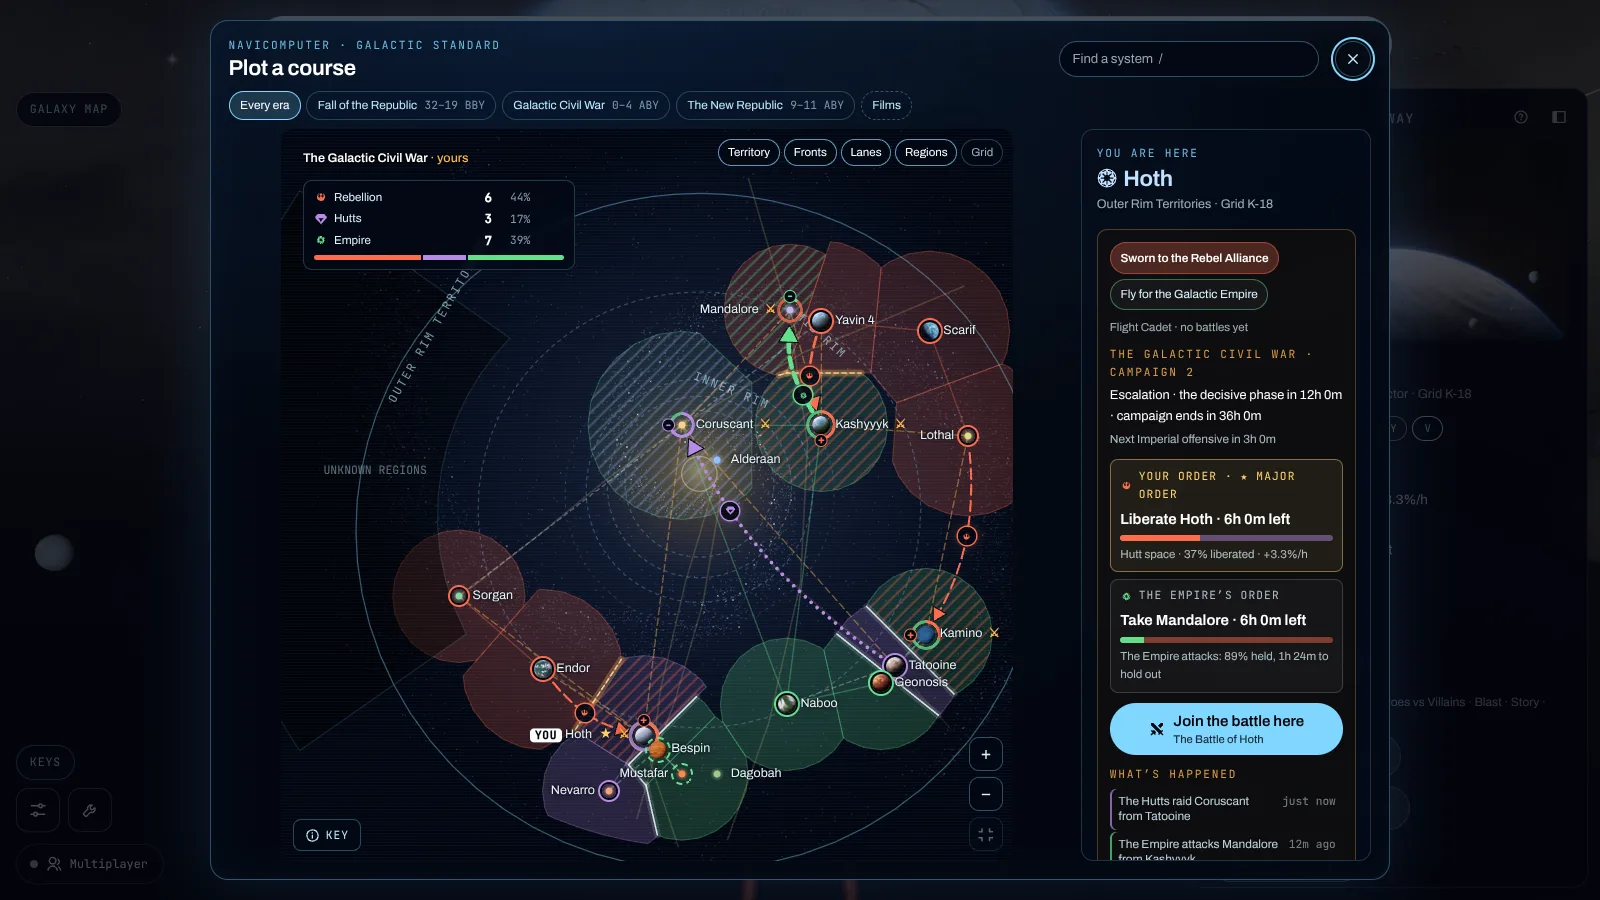
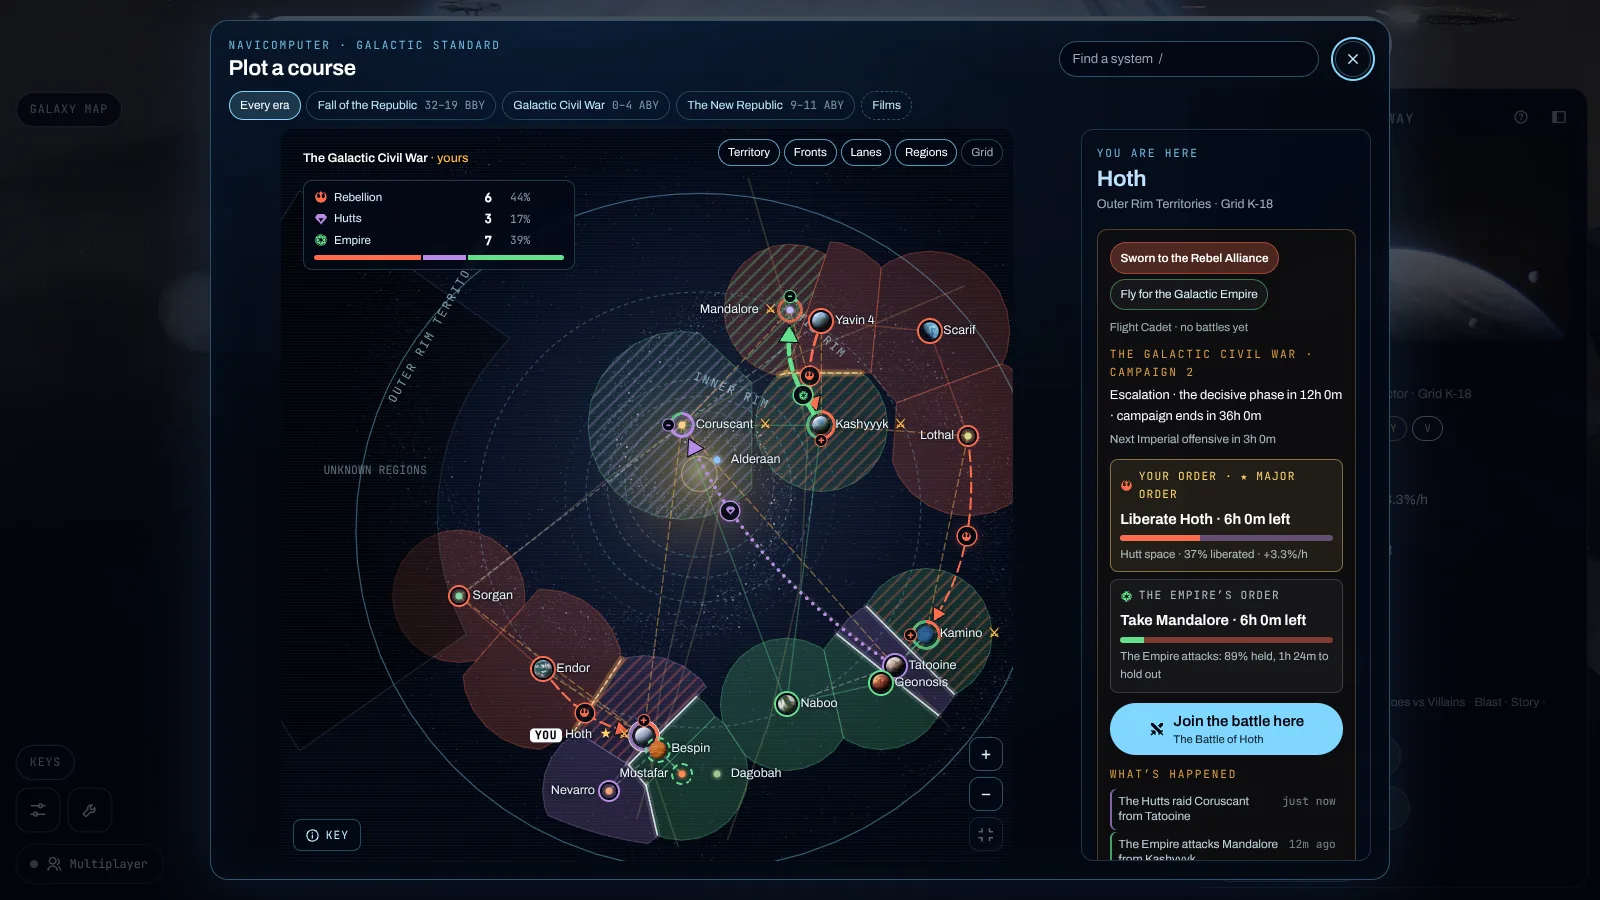
Lane S3: the hand-off and the shots after the review
The hand-off's S3 section says what changed in the review (no planet
icons: the drop's are a placeholder; the crests cropped to their art;
the war HUD's fit, measured) and corrects its figures (the globes' sizes,
the bars' proportion, the worlds without a globe, the Remix glyphs that
stay). The shots are re-taken on the fixed code: the hub flown so the
cluster's speed line shows its icon, the key at its fleet row, a siege
forced over Hoth with the defend mark, Endor's Starfighter Assault.

Claude-Session: https://claude.ai/code/session_011ndxL8L9shYuwhE5cmbo16

diff --git a/docs/superpowers/HANDOFF-bf2017.md b/docs/superpowers/HANDOFF-bf2017.md
@@ -76,28 +76,28 @@ The plan is `docs/superpowers/plans/2026-10-11-bf2017-space-laneS3-map-hud.md` (
 
 **Done.**
 
-- **A globe for every planet with a skin.** `bf2017-sky.mjs --globes` now renders a globe for every world in `src/data/planetSkins.json` with a colour map and no front-end picture (Bespin, Endor, Kamino, Naboo; E5’s the day their skins land there) from the site’s own mid cut of the skin (`scripts/lib/bf2017-sky.mjs`’s `renderGlobe`, tested: the map on a sphere seen head-on, lit from the upper left as the front end’s pictures are, the clouds over it as `bodySkin.js` cuts them, `smoothstep(cloudCut, 1, red)`, the air’s colour at the limb where the skin names one), at the front end’s 96 px (`GLOBE_PX`, lane K’s cut) beside the six pictures, WebP with alpha. `globes.json` says each row’s `kind` (`picture` or `skin`); the four were published by hash (`galaxyAssets.json`, 1.8 to 5.2 KB each; the six pictures came out byte for byte the same and were not sent again). `globes.js`’s `discOf(id)` gives `HoloMap.jsx` the dot’s props, so a procedural world keeps its dot.
-- **The war’s four sides wear the game’s icons.** `emblems.js`’s `emblemOf(side)` resolves the Republic, the Separatists, the Rebellion and the Empire to the game’s faction icons (`icon('side:republic' | 'side:separatists' | 'side:rebel' | 'side:empire')`, the factions sprite, white made currentColor so they take the side’s colour); `Emblem.jsx` draws a `<use>` of the sprite for those and the site’s crest for the rest, so the fleets, the strength strip, the key, the war card’s order and result all changed through it. `side:rebel` and `side:empire` joined `ICON_FOR` beside the battlefront world’s `side:light` and `side:dark`, which stay.
-- **The game’s sprites on the galaxy’s buttons where it has them.** Eight rows in `ICON_FOR` for the front end’s planet icons (`planet:hoth`, `endor`, `tatooine`, `yavin`, `kamino`, `kashyyyk`, `naboo`, `deathstar`; Kessel’s has no system here) lead a system’s name on the map’s side panel (`HoloSide.jsx`) and on its card (`GalaxyPanel.jsx`), in the name’s colour, and the Death Star’s is on the way to it; `hud:speed` (the starfighter HUD’s speed-bar icon) marks the flight cluster’s speed line. The sprites are sized by the text they sit with (`galaxy.css`, `flight.css`), so a touch target is what it was.
-- **The war HUD in the game’s widget layout.** `WarHud.jsx`’s stage row is laid out as the Starfighter Assault objective bar the screens lane recorded (`HUD_ObjectivesScreen_AttackBar_V03` and the objectives screen’s words, as `surface/missions/starfighterHud.js` reads them): the bar’s mark first (the game’s attack or defend shape by your side, `objective:attack` / `objective:defend`, and its lock, `objective:locked`, while the stage has not opened), the words in Univers 520 condensed at the game’s 18 px of a 1,080 screen (`clamp(0.7rem, 1.67vmin, 18px)`) in its palette’s 54 (rgb 252 252 255), each objective’s bar at the game’s 176 × 40 with the About To Lose track at alpha 0.25 and the fill at 0.85. The words are the site’s, as they were; `StarfighterHud.jsx` and its test are untouched.
+- **A globe for every planet with a skin.** `bf2017-sky.mjs --globes` now renders a globe for every world in `src/data/planetSkins.json` with a colour map and no front-end picture (Bespin, Endor, Kamino, Naboo; E5’s the day their skins land there) from the site’s own mid cut of the skin (`scripts/lib/bf2017-sky.mjs`’s `renderGlobe`, tested: the map on a sphere seen head-on, lit from the upper left as the front end’s pictures are, the clouds over it as `bodySkin.js` cuts them, `smoothstep(cloudCut, 1, red)`, the air’s colour at the limb where the skin names one), at the front end’s 96 px (`GLOBE_PX`, lane K’s cut) beside the six pictures, WebP with alpha. `globes.json` says each row’s `kind` (`picture` or `skin`); the four were published by hash (`galaxyAssets.json`, 2.4 to 5.2 KB each: Kamino 2,448 bytes to Endor 5,322; the six pictures came out byte for byte the same and were not sent again). `globes.js`’s `discOf(id)` gives `HoloMap.jsx` the dot’s props, so a world without one keeps its dot.
+- **The war’s four sides wear the game’s icons.** `emblems.js`’s `emblemOf(side)` resolves the Republic, the Separatists, the Rebellion and the Empire to the game’s faction icons (`icon('side:republic' | 'side:separatists' | 'side:rebel' | 'side:empire')`, the factions sprite, white made currentColor so they take the side’s colour), cropped to their art (`GAME_BOX`, `14 14 68 68` of the symbol’s 96: the art sits between about 19 and 76, measured, and drawn whole it stood a third smaller than the Hutts’ crest beside it); `Emblem.jsx` draws a `<use>` of the sprite for those and the site’s crest for the rest, so the fleets, the strength strip, the key, the war card’s order and result all changed through it. `side:rebel` and `side:empire` joined `ICON_FOR` beside the battlefront world’s `side:light` and `side:dark`, which stay.
+- **The game’s sprites on the galaxy’s buttons where it has them.** `hud:speed` (the starfighter HUD’s speed-bar icon) leads the flight cluster’s speed line, one item with the number (`.fc-speed-lead`; on a phone the speed line is hidden, `flight.css`’s touch row, so it shows on a wide screen only); `objective:attack`, `objective:defend` and `objective:locked` mark the war HUD’s stage row (below). Sized by the text they sit with, so no touch target changed.
+- **The war HUD in the game’s widget layout.** `WarHud.jsx`’s stage row is laid out as the Starfighter Assault objective bar the screens lane recorded (`HUD_ObjectivesScreen_AttackBar_V03` and the objectives screen’s words, as `surface/missions/starfighterHud.js` reads them): the bar’s mark first (the game’s attack or defend shape by your side, and its lock while the stage has not opened; the defend and lock shapes scaled 1.4 to read as large as the attack’s, their ink being 49 % and 42 % of their box high against its 68 %), the words in Univers 520 condensed at the game’s 18 px of a 1,080 screen in its palette’s 54 (rgb 252 252 255), stopped at 0.85 rem with a line of 1.2 and the mark at the line’s height so the row’s foot keeps clear of the crew’s line (measured in Chromium with the page’s 76 px nav: the foot at 125 px against the line’s slide-in at 126 and its rest at 132, at 1,600 × 900, 1,920 × 1,080 and 2,560 × 1,440; at 0.9 rem it was 127.3), each objective’s bar in the game’s 176 : 40 proportion with the About To Lose track at alpha 0.25 and the fill at 0.85. The battle line above it takes the bar’s Timer Text face (Univers 620 bold condensed) at its own size. Both rows sit on glass at 0.78 (RULES.md’s floor; it was 0.72 and 0.62), and the phone’s war HUD reads at 0.7 rem (it was 0.68 and 0.62). The words are the site’s, as they were, set in capitals as the game’s are; `StarfighterHud.jsx` and its test are untouched.
 
 **Where the code and the plan differed.**
 
+- **No planet icons.** The plan put the front end’s nine `Planets/Planets_*` icons on the systems’ names. In the drop’s cut they are one drawing, byte for byte the Galactic Republic’s crest (`Factions/Factions_GalacticRepublic`): a placeholder, so placing them would have put the Republic’s mark by Hoth and Endor. No planet row is in `ICON_FOR`, the names and the Death Star button keep no icon, and `icons.test.js` holds every galaxy row to a drawing no other icon in the table shares (the drop reuses art in sixteen groups; the guard fails with any `planet:*` row back). A per-world drawing is for a later cut of `UI/SVG/Customize/Planets/` (`scripts/bf2017-ui.mjs icons`, lane M’s).
 - The plan’s `HoloMap.test.jsx` (the disc’s image for Naboo, the dot for Alderaan) is `globes.test.js`’s third test on `discOf`: `HoloMap` renders into a portal, which `renderToStaticMarkup` cannot, and the repository has no DOM test runner.
 - The plan named the sides `side:rebels` and `side:empire`; the site’s ids are `rebel` and `empire` (`sides.js`), so the rows are `side:rebel` and `side:empire`.
 - The globes are rendered from the site’s converted skins under `public/textures/galaxy/planets/` (the mid cut, 1,024 wide), not fetched from the drop again: the same maps, already in git, so a run needs the bucket only for the six pictures.
-- The objective bars keep their 176 : 40 proportion at the row’s height (0.5 rem, 2.2 rem wide) rather than the game’s 40 px of a 1,080 screen, which would be a third of the row’s own glass; the plan asked for the proportions.
+- The objective bars keep the game’s 176 : 40 proportion at 2.2 × 0.5 rem (1.32 × 0.3 rem on a phone) rather than its 176 × 40 px of a 1,080 screen (about 147 × 33 px at 900 high), which would stand taller than the stage row’s own glass; the plan asked for the proportions. The words stop at 0.85 rem rather than the game’s 18 px of a 1,080 screen for the same reason: the row has to fit between the battle line and the crew’s line.
 
 **Left.**
 
 - The sides the game has no icon for keep the site’s crests: the New Republic, the Imperial Remnant, the Hutts.
-- The buttons the game has no icon with the same meaning for keep their Remix glyphs, as the rule says: the map’s close, Layers (`RiStackLine`), the whole-galaxy zoom (`RiFullscreenExitLine`), the key (`RiInformationLine`); the side panel’s jump (`RiRocket2Fill`) and the way back to the universe (`RiArrowGoBackLine`); the keys card’s close; the briefing’s skip and close; the card’s land (`RiArrowDownLine`), plot a course (`RiCompass3Line`), play (`RiPlayFill`), the panel’s tuck (`RiSideBar*`), fly to (`RiRocket2Line`), and the war card’s join (`RiSwordFill`: the game’s `GameMode_Attack` is an objective’s mark, not a battle’s). The flight cluster’s deflectors keep the site’s shield (the game’s `Abilities_Countermeasures` is an ability). The keys card’s key caps stay the house `.kbd` (RULES.md: one key cap), not the game’s `PC_*` button art.
-- The worlds without a globe (a procedural look and no picture): Alderaan, Coruscant, Dagobah, Mustafar, Lothal, Mandalore, Nevarro, Sorgan and the rest of `systems.js` outside the ten in `globes.json`; Geonosis keeps its picture globe (its skin is rings only). The six E5 worlds get theirs by running `--globes` once their rows are in `planetSkins.json`.
-- The `Planets_Orig_KES` (Kessel) icon has no system to go on; the nine `Planets_*` icons are otherwise all placed.
-- On a phone the war’s line sits over the first flight’s tip toast (`hub-phone.webp`): the toast’s place is the kit’s and the line’s is as it was (`galaxy.css`’s phone row), so it is a finding for whoever owns the galaxy’s phone HUD, not this lane’s change.
+- The buttons the game has no icon with the same meaning for keep their Remix glyphs, as the rule says: the map’s close, Layers (`RiStackLine`), the whole-galaxy zoom (`RiFullscreenExitLine`), the key (`RiInformationLine`, `RiCloseLine` while open); the side panel’s jump (`RiRocket2Fill`) and the way back to the universe (`RiArrowGoBackLine`); the keys card’s close; the briefing’s skip and close; the card’s land (`RiArrowDownLine`), plot a course (`RiCompass3Line`), play (`RiPlayFill`), the way into a mission (`RiArrowRightLine`, “Fly it now” and “Play it now”: the game’s arrows are key-cap art), the panel’s tuck (`RiSideBar*`), fly to (`RiRocket2Line`), and the war card’s join (`RiSwordFill`: the game’s `GameMode_Attack` is an objective’s mark, not a battle’s). The flight cluster’s deflectors keep the site’s shield (the game’s `Abilities_Countermeasures` is an ability). The keys card’s key caps stay the house `.kbd` (RULES.md: one key cap), not the game’s `PC_*` button art. The systems’ names keep no icon (the planet placeholder, above).
+- The worlds without a globe: Coruscant, Dagobah, Mustafar, Lothal, Mandalore, Nevarro and Sorgan (a procedural look and no picture), and Alderaan (no planet, only its rubble); Geonosis keeps its picture globe (its skin is rings only). The six E5 worlds get theirs by running `--globes` once their rows are in `planetSkins.json`.
+- On a phone the war’s line sits over the first flight’s tip toast (`hub-phone.webp`): the toast’s place is the kit’s and the war HUD’s phone row is as it was (`galaxy.css`), so it is a finding for whoever owns the galaxy’s phone HUD, not this lane’s change.
 - The war HUD’s objective bars are one an objective as before; the game’s single bar with a dot an objective is the Starfighter HUD’s (`StarfighterHud.jsx`), which already draws it.
 
-**Checking it.** `npx vitest run scripts/lib/bf2017-sky.test.mjs src/components/galaxy/globes.test.js src/components/galaxy/emblems.test.js src/components/galaxy/Emblem.test.jsx src/components/galaxy/HoloSide.test.jsx src/components/galaxy/GalaxyPanel.test.jsx src/components/galaxy/FlightCluster.test.jsx src/components/galaxy/WarHud.test.jsx src/components/galaxy/StarfighterHud.test.jsx src/lib/bf2017/icons.test.js`; the globes: `NODE_USE_ENV_PROXY=1 node scripts/bf2017-sky.mjs --globes` (the keys in the environment for the six pictures), then `node scripts/assets-publish.mjs --only 'models/galaxy/space/globes/*'`; the shots: `docs/superpowers/evidence/bf2017-space/s3/README.md`. On the PR’s head: CHECKS_S3.
+**Checking it.** `npx vitest run scripts/lib/bf2017-sky.test.mjs src/components/galaxy/globes.test.js src/components/galaxy/emblems.test.js src/components/galaxy/Emblem.test.jsx src/components/galaxy/HoloSide.test.jsx src/components/galaxy/GalaxyPanel.test.jsx src/components/galaxy/FlightCluster.test.jsx src/components/galaxy/WarHud.test.jsx src/components/galaxy/StarfighterHud.test.jsx src/lib/bf2017/icons.test.js`; the globes: `NODE_USE_ENV_PROXY=1 node scripts/bf2017-sky.mjs --globes` (the keys in the environment for the six pictures), then `node scripts/assets-publish.mjs --only 'models/galaxy/space/globes/*'`; the shots: `docs/superpowers/evidence/bf2017-space/s3/README.md`. A review pass (four reviewers over the diff, each finding put to a skeptic) found the planet placeholder, the emblems’ size, the stage row against the crew’s line, the speed line’s spacing, the marks’ sizes and the evidence’s captions; all are fixed above. On the PR’s head: CHECKS_S3.
 
 ## The picture-everywhere design: every world on the node renderer, every layer on (2026-10-11, early)
 

diff --git a/docs/superpowers/evidence/bf2017-space/s3/README.md b/docs/superpowers/evidence/bf2017-space/s3/README.md
@@ -1,14 +1,15 @@
 # Lane S3’s evidence: the map and the HUD on the game’s front end
 
-Shots through the dev server in headless Chromium (software GL, the page’s clock held at 2026-10-05 12:00 UTC as `galaxy-check.mjs` holds it), 2026-10-11, on `claude/bf2017-s3-map-hud`:
+Shots through the dev server in headless Chromium (software GL, the page’s clock held at 2026-10-05 12:00 UTC as `galaxy-check.mjs` holds it, moved on a second after a battle is forced so the HUD re-renders), 2026-10-11, on `claude/bf2017-s3-map-hud` after the review’s fixes:
 
-- `globes.webp`: the ten globes of `src/data/galaxy/space/globes.json` at twice their size (`bf2017-sky.mjs --globes`): the six front-end pictures (Geonosis, Hoth, Kashyyyk, Scarif, Tatooine, Yavin 4) and the four rendered from their skins (Bespin, Endor, Kamino, Naboo).
-- `hub-1600x900.webp`, `hub-phone.webp`: `/galaxy/hoth` at mid, the system’s card with the game’s planet icon by its name, the flight cluster with the speed-bar icon; at 1,600 × 900 and at a phone’s 390 × 844.
-- `holomap-1600x900.webp`, `holomap-phone.webp`: the map open (M) on the same two screens: the globes on the discs, the war’s strip with the game’s faction icons, the side panel’s name with its planet icon.
-- `holomap-key-1600x900.webp`: the map’s key open, the fleet’s crest the game’s.
-- `war-hoth-high.webp`: a siege forced over Hoth at high (`__galaxyDebug.war.force('empire', 'siege')`, sworn to the Rebellion): the war’s line, and under it the stage row in the game’s objective-bar layout (the defend mark, Univers, the bar).
-- `space-endor-high.webp`: Endor’s Starfighter Assault at high (`?battle=starfighter&side=rebel`): the Starfighter Assault panel and the war’s HUD under it.
+- `globes.webp`: the ten globes of `src/data/galaxy/space/globes.json` at twice their size (`bf2017-sky.mjs --globes`): Bespin, Endor, Geonosis, Hoth, Kamino in the top row, Kashyyyk, Naboo, Scarif, Tatooine, Yavin 4 below. Bespin, Endor, Kamino and Naboo are rendered from their skins; the other six are the front end’s pictures.
+- `hub-1600x900.webp`: `/galaxy/hoth` at mid, flown, so the flight cluster is on: its speed line led by the game’s speed-bar icon with the number beside it; the war’s line and stage row at the top; the system’s card with its name alone (the drop’s planet icons are a placeholder: the hand-off says why).
+- `hub-phone.webp`: the same at a phone’s 390 × 844: the touch cluster (the speed line is hidden there by design), the war HUD at 0.7 rem under the map button. The war’s line sits over the first flight’s tip toast, as on `main`; the hand-off names it.
+- `holomap-1600x900.webp`, `holomap-phone.webp`: the map open (M) on the same two screens: the globes on the discs, the strength strip with the game’s faction icons for the Rebellion and the Empire beside the Hutts’ crest, the fleets’ crests on the map.
+- `holomap-key-1600x900.webp`: the map’s key open and scrolled to its fleet row, the Empire’s fleet crest the game’s icon, cropped to its art.
+- `war-hoth-high.webp`: a siege forced over Hoth at high (`__galaxyDebug.war.force('empire', 'siege')`, sworn to the Rebellion, so you defend): “Hold the siege line”, and under it the stage row in the game’s objective-bar layout led by the defend mark. The script measured the row’s foot at 125 px against the crew line’s slide-in at 126 and its rest at 132 (the page’s nav 76 px) at 1,600 × 900, 1,920 × 1,080 and 2,560 × 1,440.
+- `space-endor-high.webp`: Endor’s Starfighter Assault at high (`?battle=starfighter&side=rebel`, defending): the Starfighter Assault panel, and the war’s line and stage row under it with the defend mark.
 
-The dev server had no `VITE_ASSET_BASE`, so a file that lives only in the public bucket (the space packs’ lists) came back as the page itself and the console said so (`Unexpected token '<'`); the published files load through the manifest’s base on the built site, and the smoke check of the built `/galaxy` is in the hand-off.
+The dev server had no `VITE_ASSET_BASE`, so a file that lives only in the public bucket came back as the page itself and the console said so (`Unexpected token '<'`); the built site reads the published files through the manifest’s base, and the smoke check of the built `/galaxy` is in the hand-off. The shot script is not committed (it lived in the ignored `lab/`); its steps are the ones `galaxy-hud-check.mjs` takes: fly two seconds, force the battle until the front reports it, then shoot.
 
 The checks on the PR’s head are in the hand-off (`docs/superpowers/HANDOFF-bf2017.md`, lane S3).
